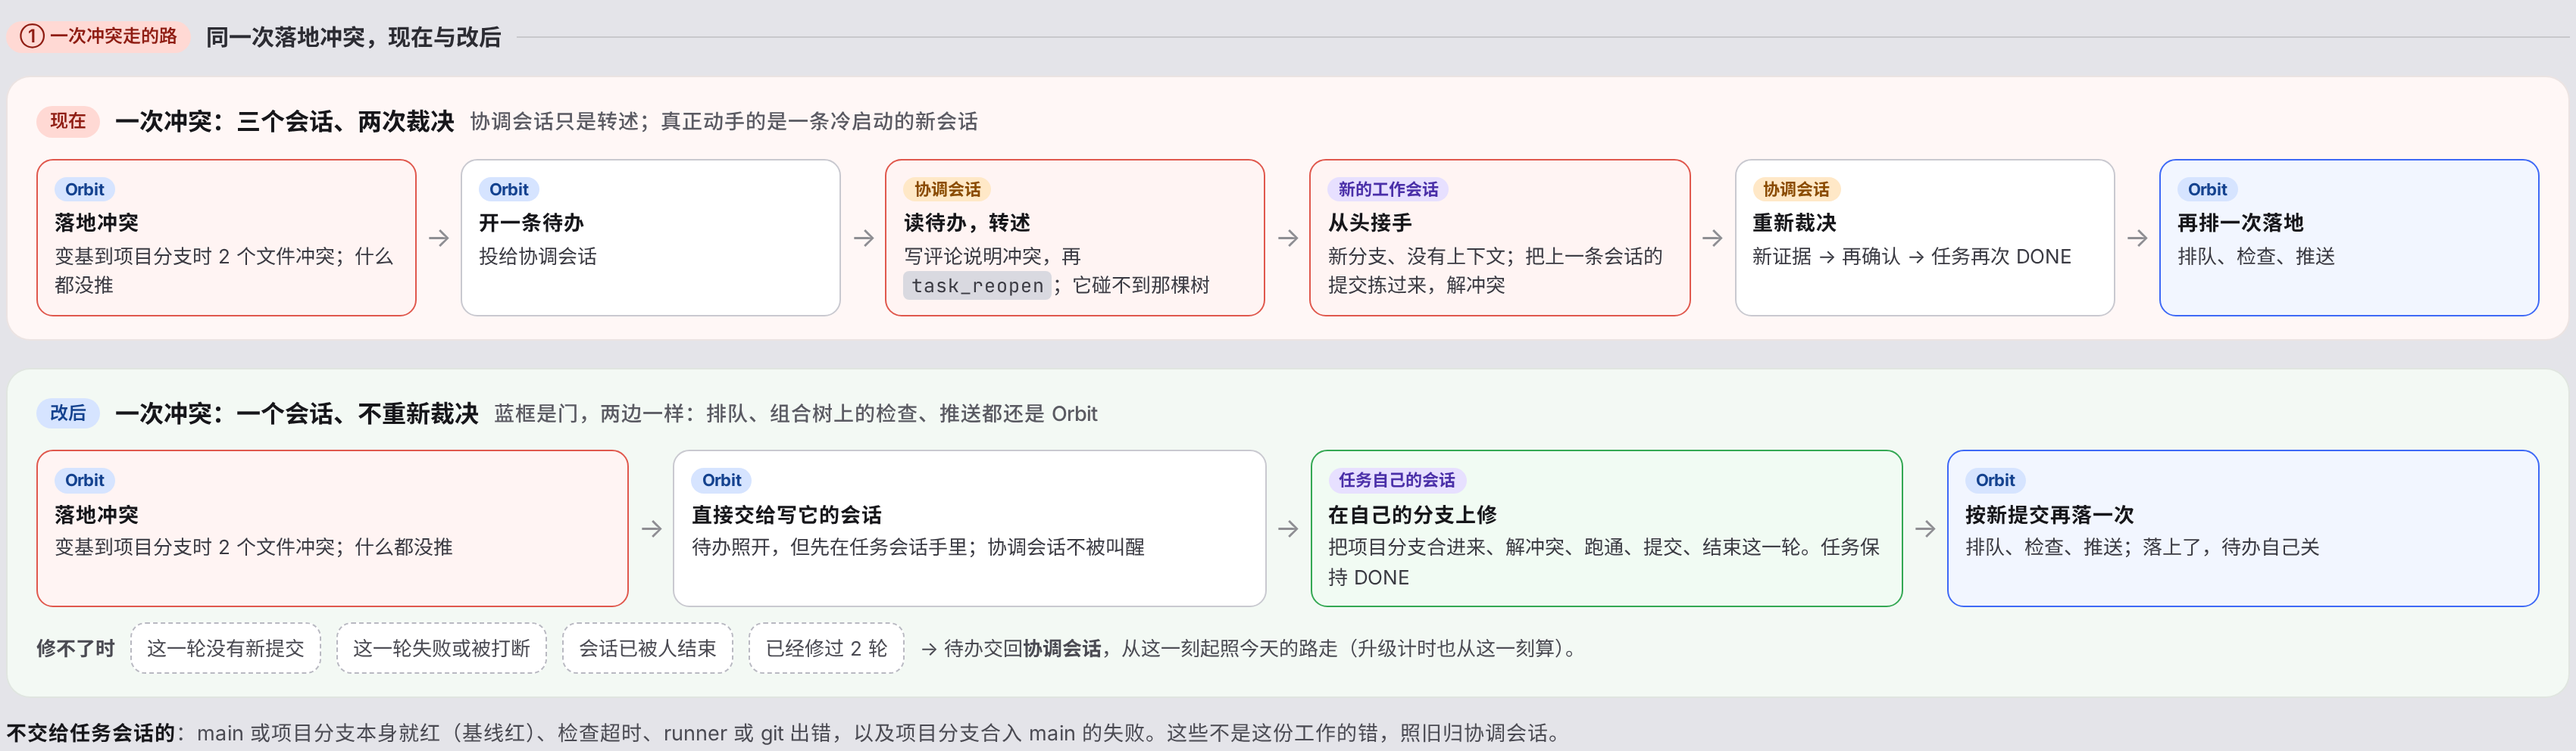
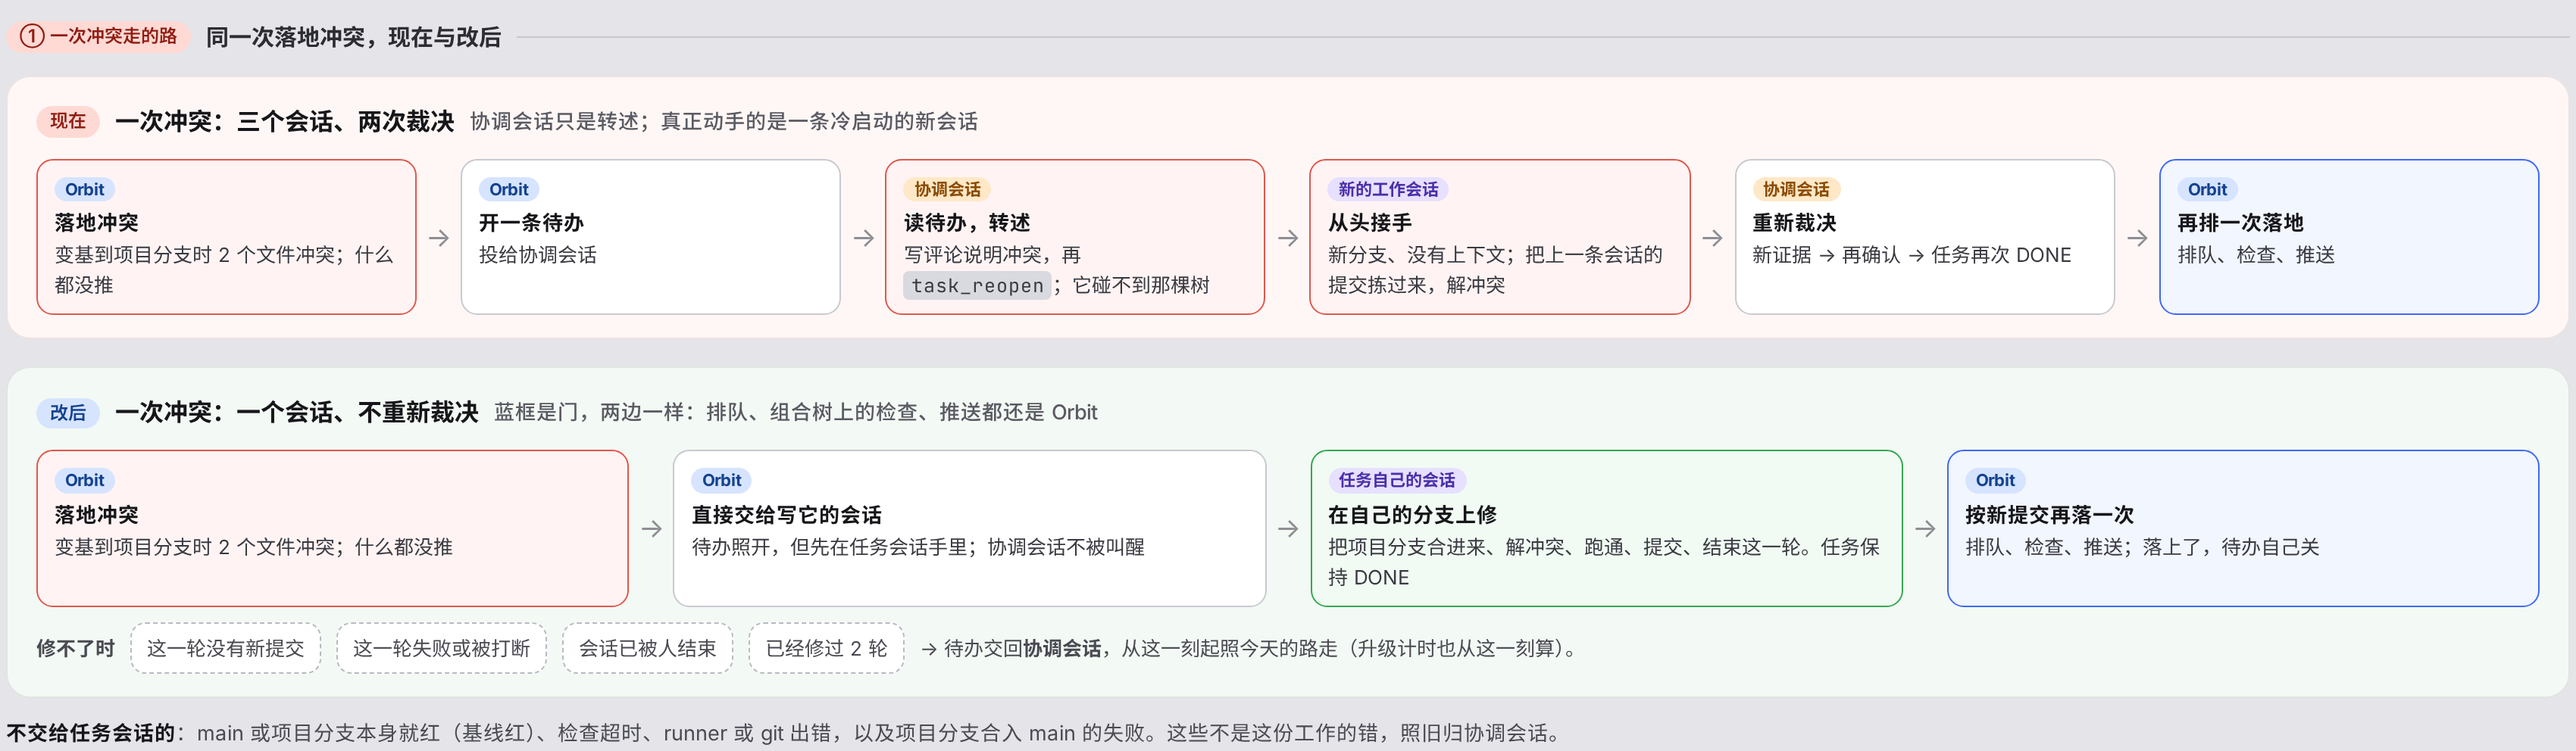
docs(contracts): merge the two drafts into revision 42; landing is measured, not labelled
The owner asked for one revision and rejected labelling projects no-code.
Section 12 now has two parts. Part one is unchanged: a landing failure goes
to the task's own session. Part two drops the widened nonCode mark: whether
work lands is read at DONE from the frozen delivered commit (no commits, no
landing job, dependents wait only for DONE), and neither nonCode nor
codeless decides landing any more. Adds an overview diagram of the whole.

diff --git a/docs/mocks/landing-fix-own-session/board.html b/docs/mocks/landing-fix-own-session/board.html
@@ -1,5 +1,5 @@
 <!doctype html><html lang="zh"><meta charset="utf-8">
-<title>落地失败先交给任务自己的会话（修订 42 草稿）</title>
+<title>落地：agent 动手，平台守门（修订 42 草稿）</title>
 <link rel="stylesheet" href="../landing-session/v4/kit.css">
 <script src="../landing-session/v4/kit.js"></script>
 <style>
@@ -55,6 +55,29 @@ figcaption ul.rv-ul li { margin: 6px 0; }
 
 .rv-later { opacity: .62; }
 .rv-then { margin: 10px 0 2px; font-size: 12px; font-weight: 600; color: #4a2fa8; background: rgba(122,90,245,.12); border-radius: 8px; padding: 3px 9px; opacity: 1; }
+
+/* ⓪ 合起来的一张 */
+.rv-cv { position: relative; width: 1692px; height: 470px; background: #fff; border-radius: 16px; box-shadow: inset 0 0 0 1px rgba(0,0,0,.08); }
+.rv-cv svg { position: absolute; inset: 0; width: 100%; height: 100%; }
+.rv-n { position: absolute; box-sizing: border-box; background: #fff; border: 1.5px solid #c9c9d0; border-radius: 12px; padding: 8px 11px; font-size: 13px; line-height: 1.45; color: #3a3a42; }
+.rv-n b { display: block; font-size: 14px; color: #16161a; margin-bottom: 1px; }
+.rv-n .who { display: inline-block; font-size: 11px; font-weight: 700; border-radius: 999px; padding: 0 7px; margin-bottom: 3px; }
+.rv-n .who.orbit { background: #d6e4ff; color: #14428f; } .rv-n .who.agent { background: #e7e0ff; color: #4a2fa8; }
+.rv-n .who.coord { background: #ffe8c7; color: #8a4b00; } .rv-n .who.you { background: #16161a; color: #fff; }
+.rv-n.gate { border-color: #3E69F6; background: #f2f6ff; } .rv-n.ok { border-color: #34a853; background: #f1fbf3; }
+.rv-n.hot { border-color: #e0584d; background: #fff4f3; } .rv-n.chg { border-color: #7a5af5; background: #f6f3ff; border-width: 2px; }
+.rv-n .c { position: absolute; top: -11px; right: -11px; width: 22px; height: 22px; border-radius: 50%; background: #7a5af5; color: #fff; font-size: 12.5px; font-weight: 700; display: flex; align-items: center; justify-content: center; }
+.rv-lab { position: absolute; font-size: 12.5px; font-weight: 600; color: #4a4a52; background: #fff; padding: 0 5px; white-space: nowrap; }
+.rv-3 { display: grid; grid-template-columns: repeat(3, 1fr); gap: 16px; width: 1692px; margin-top: 16px; }
+.rv-chg { background: #fff; border-radius: 14px; padding: 12px 15px 13px; box-shadow: inset 0 0 0 1px rgba(0,0,0,.08); font-size: 13.5px; line-height: 1.6; color: #3a3a42; }
+.rv-chg h4 { margin: 0 0 6px; font-size: 15px; display: flex; align-items: center; gap: 8px; color: #16161a; }
+.rv-chg h4 .c { width: 22px; height: 22px; border-radius: 50%; background: #7a5af5; color: #fff; font-size: 12.5px; display: inline-flex; align-items: center; justify-content: center; flex: none; }
+.rv-chg .was { color: #8f1d13; } .rv-chg .now2 { color: #14428f; }
+.rv-chg p { margin: 4px 0 0; }
+.rv-who3 { display: grid; grid-template-columns: repeat(3, 1fr); gap: 16px; width: 1692px; margin-top: 16px; }
+.rv-who3 > div { border-radius: 14px; padding: 11px 15px 12px; font-size: 13.5px; line-height: 1.65; color: #2c2c33; }
+.rv-who3 h4 { margin: 0 0 4px; font-size: 14.5px; }
+.rv-who3 .w1 { background: #e8efff; } .rv-who3 .w2 { background: #fff0d9; } .rv-who3 .w3 { background: #e6e6ea; }
 /* ③ 待定 */
 .rv-panel { width: 1300px; }
 .rv-panel p, .rv-panel li { font-size: 14px; line-height: 1.65; color: #33333a; }
@@ -65,10 +88,10 @@ table.rv-q td.rec { background: rgba(62,105,246,.06); }
 table.rv-q td:first-child { white-space: nowrap; font-weight: 700; }
 </style>
 <body>
-<h1>落地失败先交给任务自己的会话（契约修订 42 草稿 · 2026-11-20）</h1>
+<h1>落地：agent 动手，平台守门（契约修订 42 草稿 · 2026-11-20）</h1>
 <p class="lede rv-lede">今天一次任务落地冲突或检查失败，要经协调会话转一手，再开一条<b>新的</b>工作会话返工；写这份工作的会话不在这条路上。<br>
 修订 42：<b>门不动</b>（排队、在组合树上跑检查、推送、进 main 的确认都还是 Orbit 做），只把「谁来修」换成<b>写这份工作的会话</b>；它修不了，才到协调会话。<br>
-本图：① 一次冲突走的路，现在与改后；② iPhone 上看到什么；③ 待你定的四条。英文是上线文案，中文是说明；项目与任务名是示例数据。只画了 iPhone，web 与 Android 用同一组部件，方向定了再画。</p>
+本图：⓪ 合起来的一张（含第二部分：落不落地由平台量、落地前跑什么由协调者定）；① 一次冲突走的路，现在与改后；② iPhone 上看到什么；③ 第一部分待你定的四条。英文是上线文案，中文是说明；项目与任务名是示例数据。只画了 iPhone，web 与 Android 用同一组部件，方向定了再画。</p>
 <div id="board"></div>
 <script>
 const WP = 'Android 客户端';
@@ -111,6 +134,40 @@ const part1 = `<div class="rv-flows">
 <span>→ 待办交回<b>协调会话</b>，从这一刻起照今天的路走（升级计时也从这一刻算）。</span></div></div>
 </div>
 <p class="rv-sum" style="max-width:1692px"><b>不交给任务会话的</b>：main 或项目分支本身就红（基线红）、检查超时、runner 或 git 出错，以及项目分支合入 main 的失败。这些不是这份工作的错，照旧归协调会话。</p>`;
+
+// ── ⓪ 合起来的一张 ─────────────────────────────────────────────────────────────────
+const nd = (x, y, w, h, cls, who, title, text, c = '') => `<div class="rv-n ${cls}" style="left:${x}px;top:${y}px;width:${w}px;height:${h}px">${who ? `<span class="who ${who[0]}">${who[1]}</span>` : ''}<b>${title}</b>${text}${c ? `<span class="c">${c}</span>` : ''}</div>`;
+const YOU = ['you', '你'];
+const lab = (x, y, t) => `<span class="rv-lab" style="left:${x}px;top:${y}px">${t}</span>`;
+const ln = (d, dash = false) => `<path d="${d}" fill="none" stroke="#7d7d86" stroke-width="1.8" ${dash ? 'stroke-dasharray="6 5"' : ''} marker-end="url(#rv-a)"/>`;
+const part0 = `<div class="rv-cv"><svg viewBox="0 0 1692 470"><defs><marker id="rv-a" viewBox="0 0 10 10" refX="9" refY="5" markerWidth="8" markerHeight="8" orient="auto-start-reverse"><path d="M0 0 10 5 0 10z" fill="#7d7d86"/></marker></defs>
+${ln('M176 192 H222')}${ln('M476 170 V68 H548')}${ln('M476 214 V228 H548')}${ln('M860 68 H908')}
+${ln('M808 228 H858')}${ln('M1160 228 H1210')}${ln('M1420 228 H1468')}
+${ln('M1008 284 V342')}${ln('M858 396 H808')}${ln('M676 342 V284')}${ln('M1160 396 H1210', true)}
+</svg>
+${nd(20, 150, 156, 84, '', TS, '任务完成', 'DONE：验收通过')}
+${nd(224, 132, 252, 120, 'chg', ORB, '分支上有自己的提交吗？', '平台从已提交的行读出来。<br>没有人给项目或任务贴标签', 2)}
+${nd(550, 26, 310, 84, 'ok', ORB, '没有 → 没有落地', '不排队，不经 runner，不开项目分支')}
+${nd(910, 26, 300, 84, 'ok', ORB, '下游任务立刻开工', '任务图多复杂都只等 DONE')}
+${nd(550, 172, 258, 112, 'chg', CO, '有 → 落地前跑什么', '进项目分支的检查由协调者定，<br>可对单个任务免检，不再每次出卡', 3)}
+${nd(860, 172, 300, 112, 'gate', ORB, 'Orbit 的门（不变）', '一次只落一个 · 在组合树上跑检查 ·<br>只推测过的那棵树')}
+${nd(1212, 172, 208, 112, 'ok', ORB, '落上项目分支', '回执；下游开工')}
+${nd(1470, 172, 208, 112, 'gate', YOU, '进 main（不变）', '合并检查 + 你确认<br>（或你开的 Automatic）')}
+${nd(860, 344, 300, 104, 'hot', ORB, '冲突，或这份工作弄红了检查', '什么都没推')}
+${nd(550, 344, 258, 104, 'chg', TS, '写它的会话自己修', '在自己的分支上修、提交。<br>任务保持 DONE', 1)}
+${nd(1212, 344, 466, 104, '', CO, '修不了 → 协调会话 → 你', '没有新提交、这一轮失败、已修过 2 轮。<br>基线红、超时、runner 出错一开始就到这里')}
+${lab(486, 100, '没有')}${lab(486, 236, '有')}${lab(1016, 302, '没过')}${lab(684, 302, '新提交，再走一遍')}${lab(1166, 364, '')}
+</div>
+<div class="rv-3">
+<div class="rv-chg"><h4><span class="c">1</span>落地失败，先交给写它的会话</h4><p><span class="was"><b>现在</b></span>　协调会话读待办、转述，再开一条新会话从头返工，然后重新裁决。</p><p><span class="now2"><b>改后</b></span>　失败直接进写这份工作的会话；它修出新提交，Orbit 自己再落。修不了才到协调会话。</p></div>
+<div class="rv-chg"><h4><span class="c">2</span>落不落地，量出来，不贴标签</h4><p><span class="was"><b>现在</b></span>　靠 <code>nonCode</code>（项目）和 <code>codeless</code>（任务）两个标签；没贴的任务一律排队，等 runner 答一句 Nothing to land，下游跟着等。</p><p><span class="now2"><b>改后</b></span>　任务完成时平台已经知道分支上有没有提交。没有就不进落地这条路；两个标签不再决定落地。</p></div>
+<div class="rv-chg"><h4><span class="c">3</span>进项目分支之前跑什么，协调者定</h4><p><span class="was"><b>现在</b></span>　落地检查每改一次，一张你的确认卡；免检只靠仓库名单或你自己的门。</p><p><span class="now2"><b>改后</b></span>　协调者直接定、留痕、你可改回。前提是进 main 的合并检查还在；那条检查仍然每次问你。</p></div>
+</div>
+<div class="rv-who3">
+<div class="w1"><h4>平台做、平台量（不变的门）</h4>排队 · 在组合树上跑检查 · 推送 · 回执 · 派发下游 · 有没有提交</div>
+<div class="w2"><h4>agent 定、agent 做（这次放开的）</h4>修自己的落地失败 · 进项目分支前跑什么 · 哪条任务免检 · 修几轮</div>
+<div class="w3"><h4>你定（不变）</h4>落在哪条线 · main 是哪条分支 · 合并检查 · 进 main · Agent push · Automatic 与并发</div>
+</div>`;
 
 // ── ② iPhone ────────────────────────────────────────────────────────────────────
 // a · 现在：落地窗口里等决定的那张卡（main 上的样子）
@@ -173,6 +230,10 @@ const part3 = `<div class="rv-panel">
 </div>`;
 
 document.getElementById('board').innerHTML = `
+<section class="rv-part" id="part-0" data-png="00-overview">
+${band('⓪ 合起来看', 'after', '一条任务从完成到落地：三处改动（紫色），两道不变的门（蓝色）')}
+${part0}</section>
+
 <section class="rv-part" id="part-1" data-png="01-path">
 ${band('① 一次冲突走的路', 'now', '同一次落地冲突，现在与改后')}
 ${part1}</section>

diff --git a/docs/mocks/landing-fix-own-session/README.md b/docs/mocks/landing-fix-own-session/README.md
@@ -1,11 +1,12 @@
-# 落地失败先交给任务自己的会话（2026-11-20）
+# 落地：agent 动手，平台守门（2026-11-20）
 
-契约修订 42（草稿）的效果图：`docs/project-integration-line-contract.md` §12，待 owner 裁决附录 A 的 Q30–Q33。
+契约修订 42（草稿）的效果图：`docs/project-integration-line-contract.md` §12，待 owner 裁决附录 A 的 Q30–Q37。目录名是第一部分起的，合并后没有改。
 
 部件照 `../landing-session/v4/` 与 `../landings-one-window/`（main 上的落地窗口）。英文是上线文案，中文是说明；项目与任务名是示例数据。只画了 iPhone。
 
 | 图 | 内容 |
 |---|---|
+| `00-overview.png` | ⓪ 合起来的一张：一条任务从完成到落地，三处改动（落地失败先交写它的会话；落不落地由平台量、不贴标签；进项目分支前跑什么由协调者定）与两道不变的门 |
 | `01-path.png` | ① 一次落地冲突走的路：现在（三个会话、两次裁决）与改后（一个会话、不重新裁决） |
 | `02-iphone.png` | ② a 现在的落地窗口 · b 任务自己的会话里收到的卡 · c 落地窗口的 Fixing 状态与记录 · d 它修不了，交回协调会话 |
 | `03-decisions.png` | ③ 待定的四条 |
